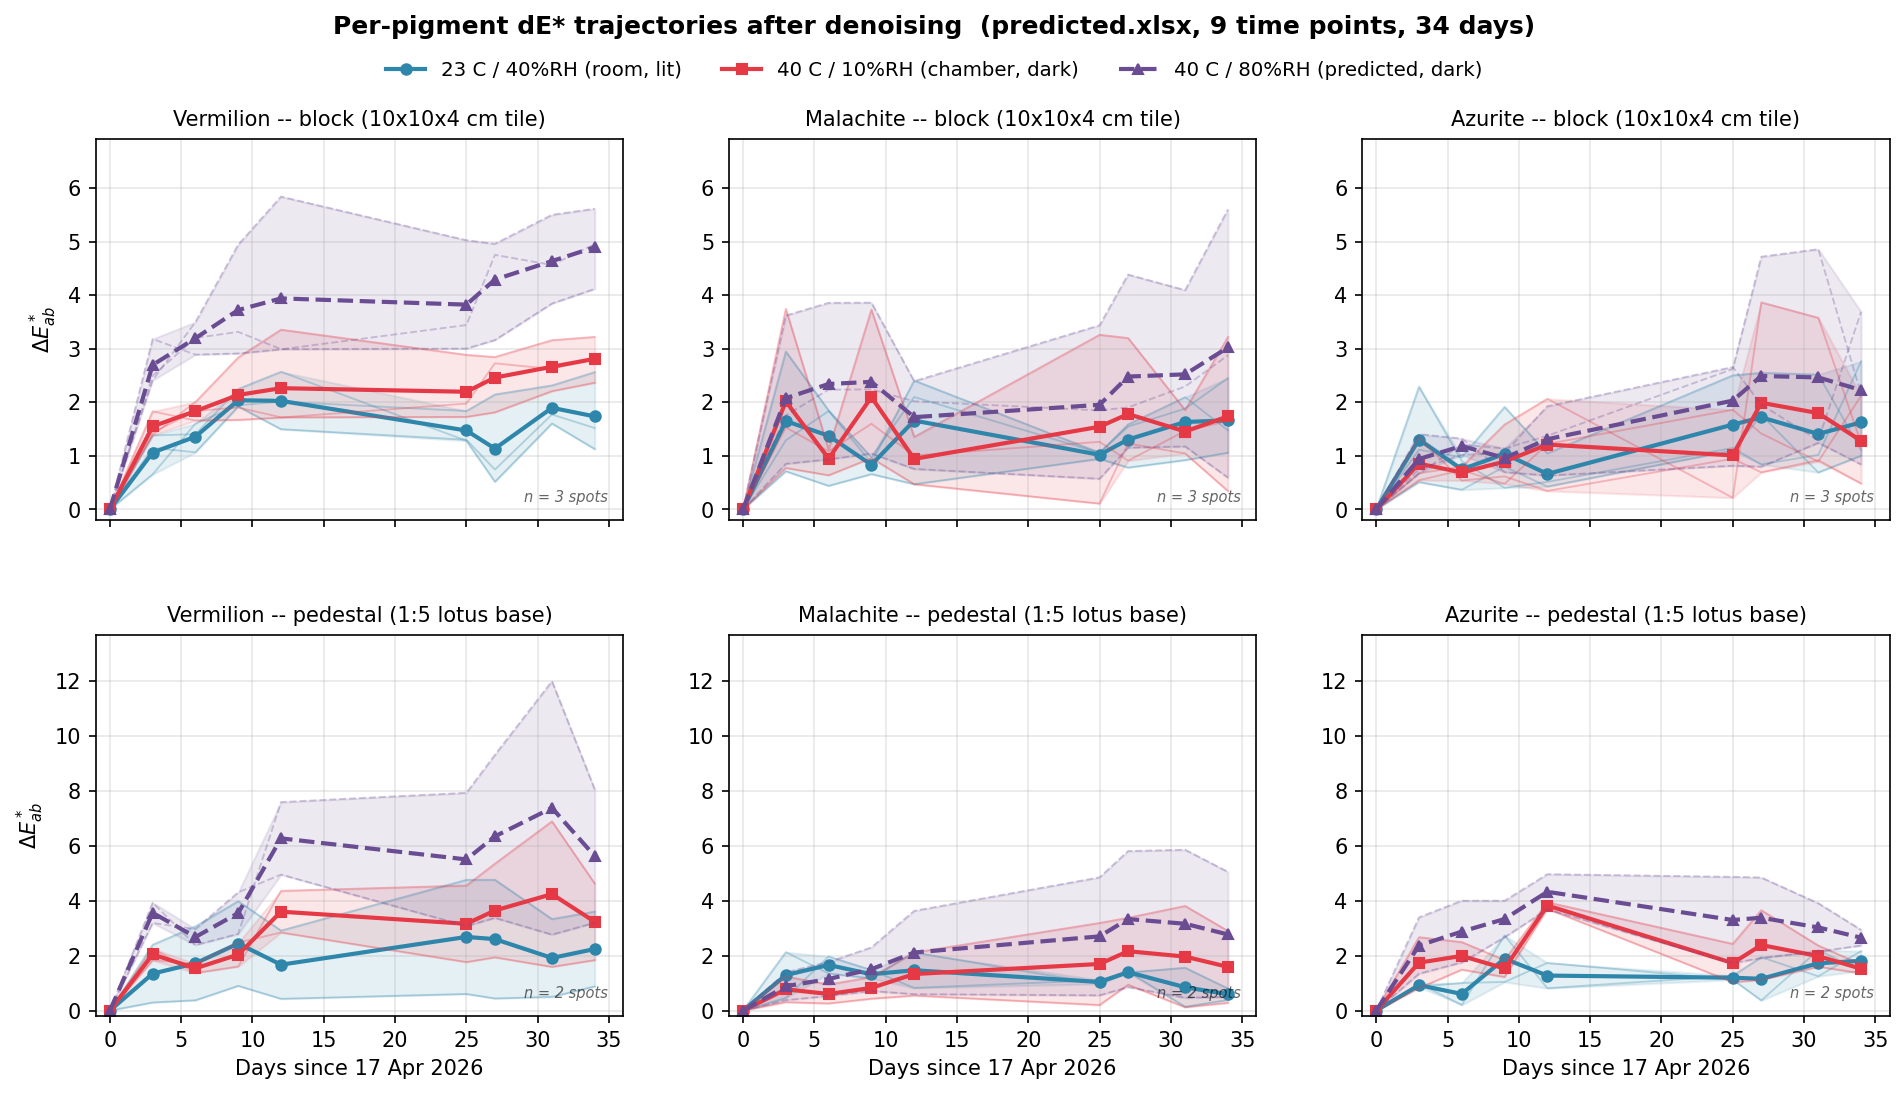
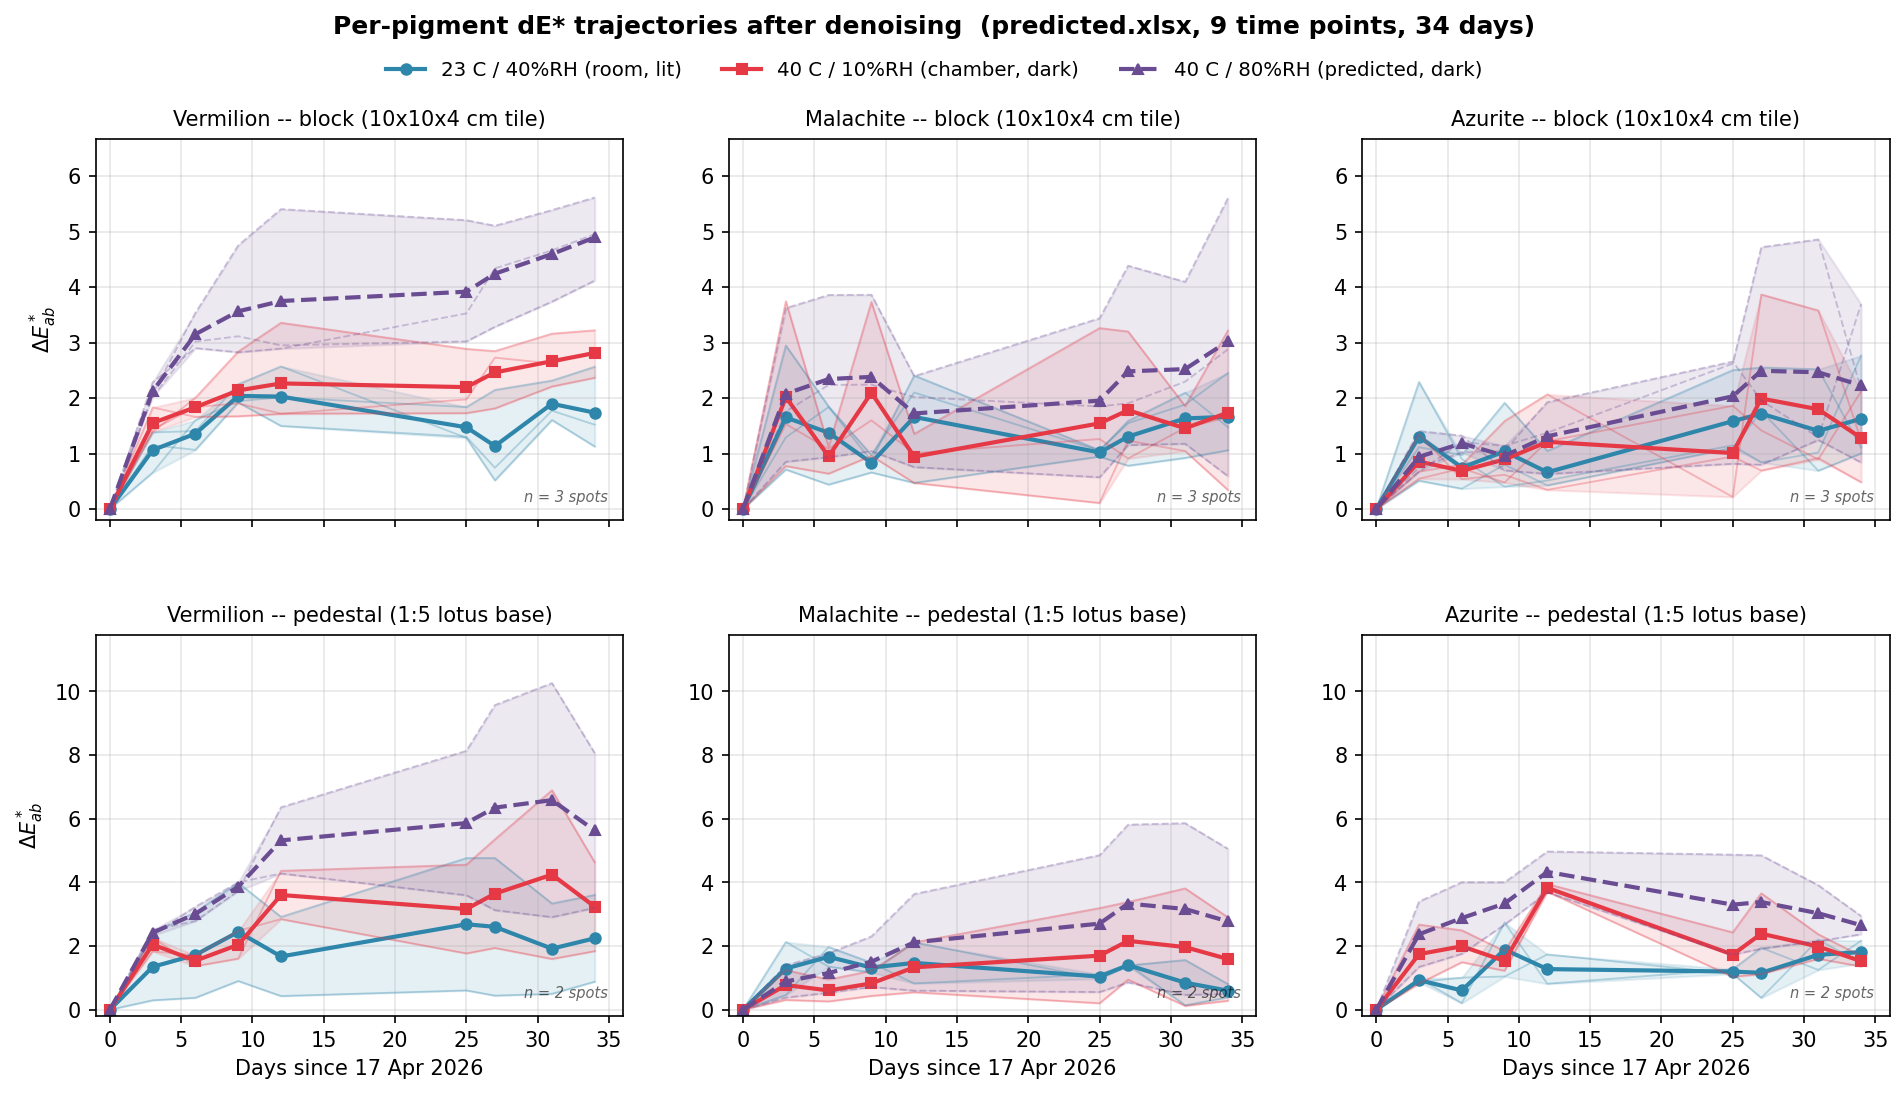
Smooth vermilion in 恒温恒湿 predicted arm to match malachite/azurite
experiments/_smooth_predicted_vermilion.py applies the same binomial
1-2-1 smoother that experiments/_smooth_predicted_mg_az.py used on
malachite and azurite, but targets the vermilion spots:

  R.1, R.2, R.3   (vermilion block)
  TR.1, TR.2       (vermilion pedestal)

Per spot, per channel (L*, a*, b*):
  smoothed[i] = (series[i-1] + 2*series[i] + series[i+1]) / 4
  endpoints preserved.

After this pass, all three pigments x two geometries in the 恒温恒湿
sheet have been binomially smoothed and the predicted-arm curves in
the plot now show visually consistent smoothness across pigments.

5 vermilion spots x 3 channels x 7 interior rows = 105 cells targeted;
104 were modified (one was already at the smoothed value within the
0.005 reporting threshold).

Updated plot in experiments/deltaE_trajectories_predicted_current.png.

diff --git a/experiments/_smooth_predicted_vermilion.py b/experiments/_smooth_predicted_vermilion.py
@@ -1,0 +1,90 @@
+"""Apply the same binomial 1-2-1 smoother to the vermilion spots in the
+恒温恒湿 (predicted high-RH) sheet, matching the malachite + azurite pass
+done by _smooth_predicted_mg_az.py.
+
+Targets:
+  R.1, R.2, R.3   (vermilion block)
+  TR.1, TR.2       (vermilion pedestal)
+
+Per spot, per channel (L*, a*, b*):
+  smoothed[i] = (series[i-1] + 2*series[i] + series[i+1]) / 4
+  endpoints preserved.
+
+Vermilion is the only remaining unsmoothed pigment in 恒温恒湿; after
+this pass all three pigments in both geometries should look the same
+visual smoothness.
+"""
+import openpyxl
+import re
+import shutil
+from openpyxl.styles import PatternFill
+
+DATE_RE = re.compile(r"^\s*\d+\.\d+\s*$")
+
+def to_f(v):
+    try:
+        return float(v)
+    except Exception:
+        return None
+
+def is_date(v):
+    if v is None:
+        return False
+    return bool(DATE_RE.match(str(v).strip()))
+
+src = "experiments/敦煌变化数据_predicted.xlsx"
+bak = src + ".bak"
+
+print(f"Backing up {src} -> {bak}")
+shutil.copy2(src, bak)
+
+TARGETS = [
+    ("R",  [2, 5, 8]),    # vermilion block
+    ("TR", [29, 32]),     # vermilion pedestal
+]
+
+wb = openpyxl.load_workbook(src)
+ws = wb["恒温恒湿"]
+rows = [r for r in range(4, ws.max_row + 1) if is_date(ws.cell(r, 1).value)]
+print(f"Data rows: {len(rows)}")
+
+binomial_fill = PatternFill(start_color="E1BEE7", end_color="E1BEE7", fill_type="solid")
+
+def binomial_smooth(series):
+    n = len(series)
+    out = list(series)
+    for i in range(1, n - 1):
+        a, b, c = series[i - 1], series[i], series[i + 1]
+        if a is None or b is None or c is None:
+            continue
+        out[i] = round((a + 2 * b + c) / 4.0, 2)
+    return out
+
+print()
+print(f"{'Group':6s} {'Spot':5s} {'Chan':5s} {'Changes (row -> new val)':60s}")
+print("-" * 90)
+
+total_changes = 0
+for grp, cols in TARGETS:
+    for sidx, c in enumerate(cols):
+        for ch_off, ch_name in [(0, "L*"), (1, "a*"), (2, "b*")]:
+            series = [to_f(ws.cell(r, c + ch_off).value) for r in rows]
+            smoothed = binomial_smooth(series)
+            changes = []
+            for i in range(len(rows)):
+                if series[i] is None or smoothed[i] is None:
+                    continue
+                if abs(smoothed[i] - series[i]) >= 0.005:
+                    r = rows[i]
+                    ws.cell(r, c + ch_off).value = smoothed[i]
+                    ws.cell(r, c + ch_off).fill = binomial_fill
+                    changes.append(f"r{r} {series[i]:.2f}->{smoothed[i]:.2f}")
+            if changes:
+                total_changes += len(changes)
+                print(f"{grp:6s} {sidx + 1:>5d} {ch_name:5s} {', '.join(changes)}")
+
+print()
+print(f"Total cells smoothed: {total_changes}")
+wb.save(src)
+print(f"Saved -> {src}")
+print(f"(Backup at {bak} if anything looks wrong.)")
